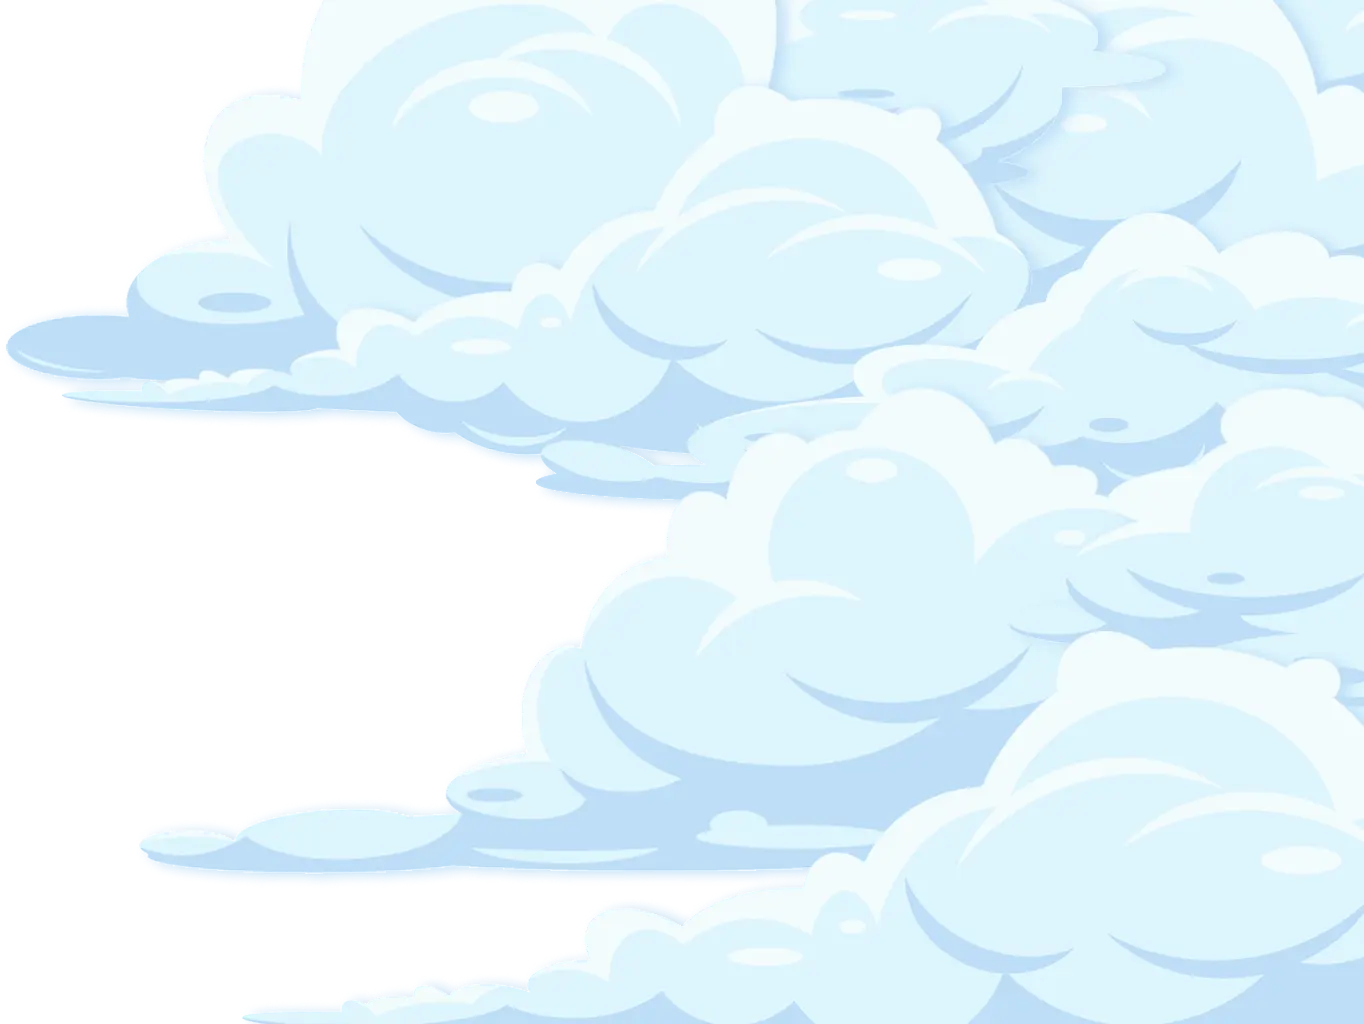
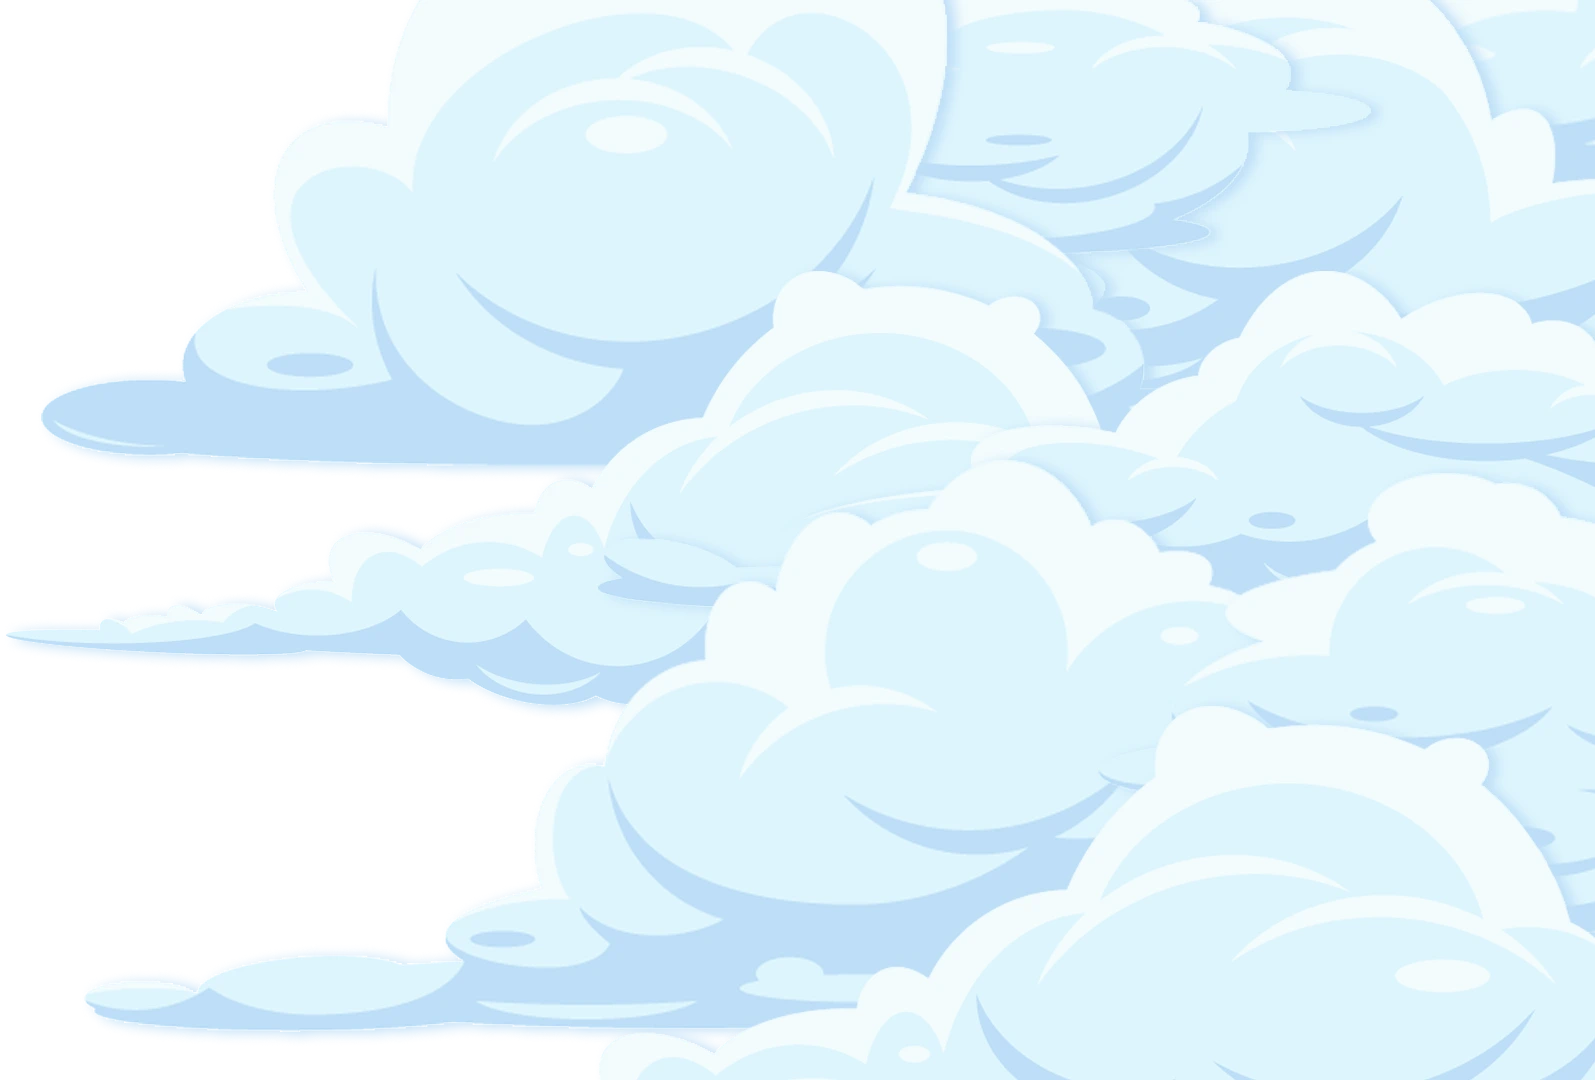
feat: added transtion from map to subtheme

diff --git a/src/features/MapSubTheme/DesktopMapSubTheme/SubThemeMapPicker.tsx b/src/features/MapSubTheme/DesktopMapSubTheme/SubThemeMapPicker.tsx
@@ -5,6 +5,7 @@ import type React from 'react';
 import { useState, useEffect } from 'react';
 import Image from 'next/image';
 import Link from 'next/link';
+import TransitionLink from '@/components/ui/transitionLink';
 
 // Define the type for static images
 const subthemes = [
@@ -159,13 +160,12 @@ export default function ParallaxBackground({ className = '' }: { className?: str
               transform: `translate(${translateX}px, ${translateY}px)`,
               zIndex: 5,
             }}
+            onMouseLeave={() => setHoveredButtonIndex(null)} // Hide image when hover ends
+            onMouseEnter={() => setHoveredButtonIndex(index)} // Show image on hover
           >
-            <Link
+            <TransitionLink
               href={`/${img.route}`}
               className="lg:!w-[500px] lg:!h-[500px] w-96 h-96 flex justify-center items-center" // Removed hover:hidden
-              onClick={() => console.log(`Clicked landmark: ${img.alt}`)} // Example onClick
-              onMouseEnter={() => setHoveredButtonIndex(index)} // Show image on hover
-              onMouseLeave={() => setHoveredButtonIndex(null)} // Hide image when hover ends
             >
               {/* Image is now always rendered, opacity and bounce are conditional */}
               <Image
@@ -179,7 +179,7 @@ export default function ParallaxBackground({ className = '' }: { className?: str
                   ${hoveredButtonIndex === index ? 'animate-bounce' : ''}
                 `}
               />
-            </Link>
+            </TransitionLink>
           </div>
         );
       })}

diff --git a/src/components/ui/transitionLink.tsx b/src/components/ui/transitionLink.tsx
@@ -1,0 +1,38 @@
+import { ReactNode, MouseEvent, JSX } from 'react';
+import Link, { LinkProps } from 'next/link';
+import sleep from '@/lib/sleep';
+import { useRouter } from 'next/navigation';
+
+interface TransitionLinkProps extends LinkProps {
+  children: ReactNode;
+  className: string;
+}
+
+export default function TransitionLink({
+  children,
+  href,
+  className,
+  ...props
+}: TransitionLinkProps): JSX.Element {
+  const router = useRouter();
+
+  const handleTransition = async (event: MouseEvent<HTMLAnchorElement>) => {
+    event.preventDefault();
+    const leftCloud = document.querySelector('.left-cloud');
+    const rightCloud = document.querySelector('.right-cloud');
+
+    leftCloud?.classList.add('left-cloud-inout');
+    rightCloud?.classList.add('right-cloud-inout');
+    await sleep(800);
+    router.push(typeof href === 'string' ? href : href.toString());
+    await sleep(1600);
+    leftCloud?.classList.remove('left-cloud-inout');
+    rightCloud?.classList.remove('right-cloud-inout');
+  };
+
+  return (
+    <Link onClick={handleTransition} className={className} href={href} {...props}>
+      {children}
+    </Link>
+  );
+}

diff --git a/src/features/auth/GoogleLogin.tsx b/src/features/auth/GoogleLogin.tsx
@@ -5,10 +5,7 @@ import Image from 'next/image';
 import { useEffect } from 'react';
 import { useCookies } from 'react-cookie';
 import { useRouter } from 'next/navigation';
-
-function sleep(ms: number): Promise<void> {
-  return new Promise((resolve) => setTimeout(resolve, ms));
-}
+import sleep from '@/lib/sleep';
 
 export default function GoogleLogin() {
   const { login } = useGoogleAuth();
@@ -27,7 +24,7 @@ export default function GoogleLogin() {
         rightCloud?.classList.add('right-cloud-inout');
         await sleep(800);
         router.push('/');
-        await sleep(2000);
+        await sleep(1600);
         leftCloud?.classList.remove('left-cloud-inout');
         rightCloud?.classList.remove('right-cloud-inout');
       }

diff --git a/src/lib/sleep.ts b/src/lib/sleep.ts
@@ -1,0 +1,3 @@
+export default function sleep(ms: number): Promise<void> {
+  return new Promise((resolve) => setTimeout(resolve, ms));
+}
